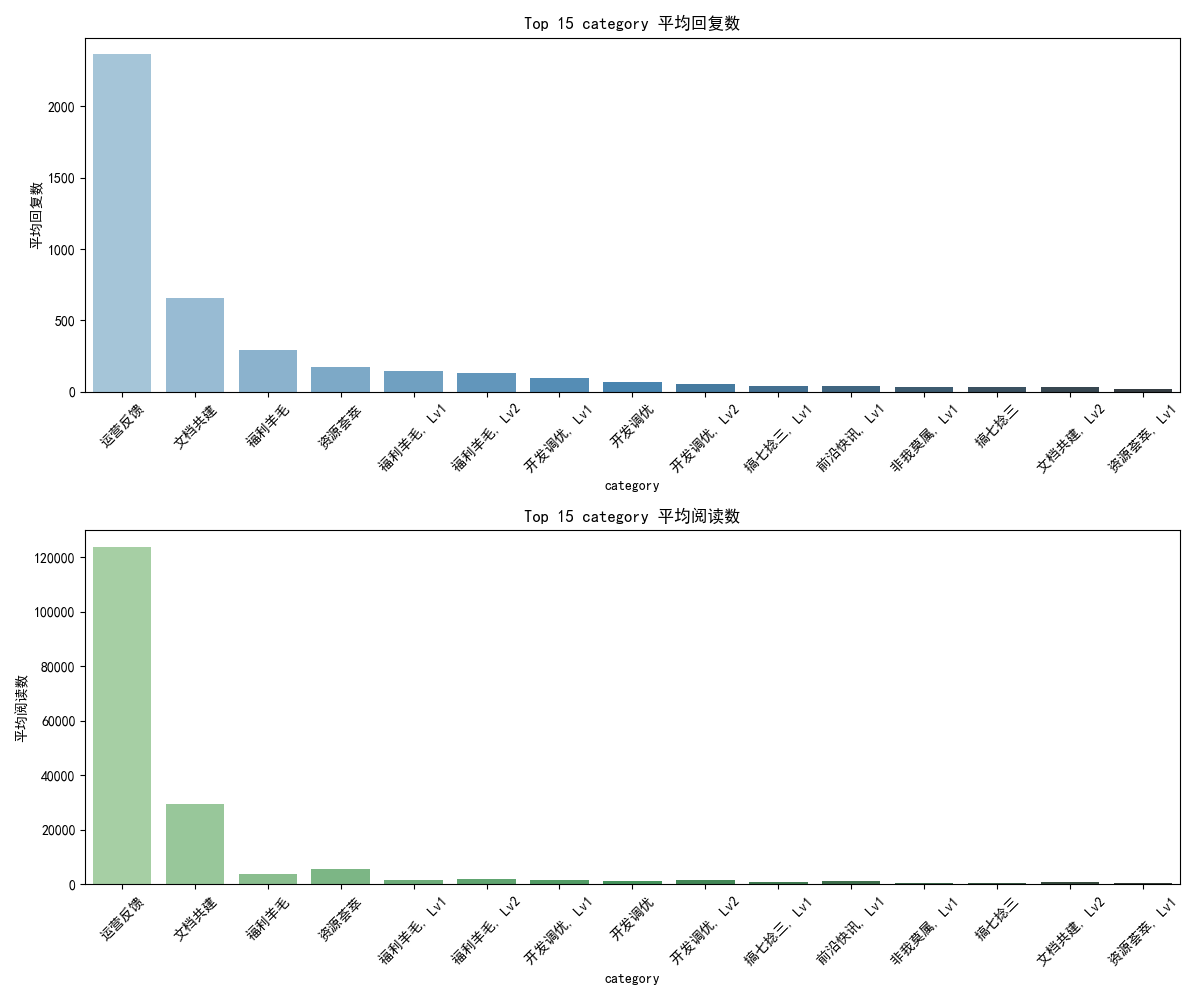
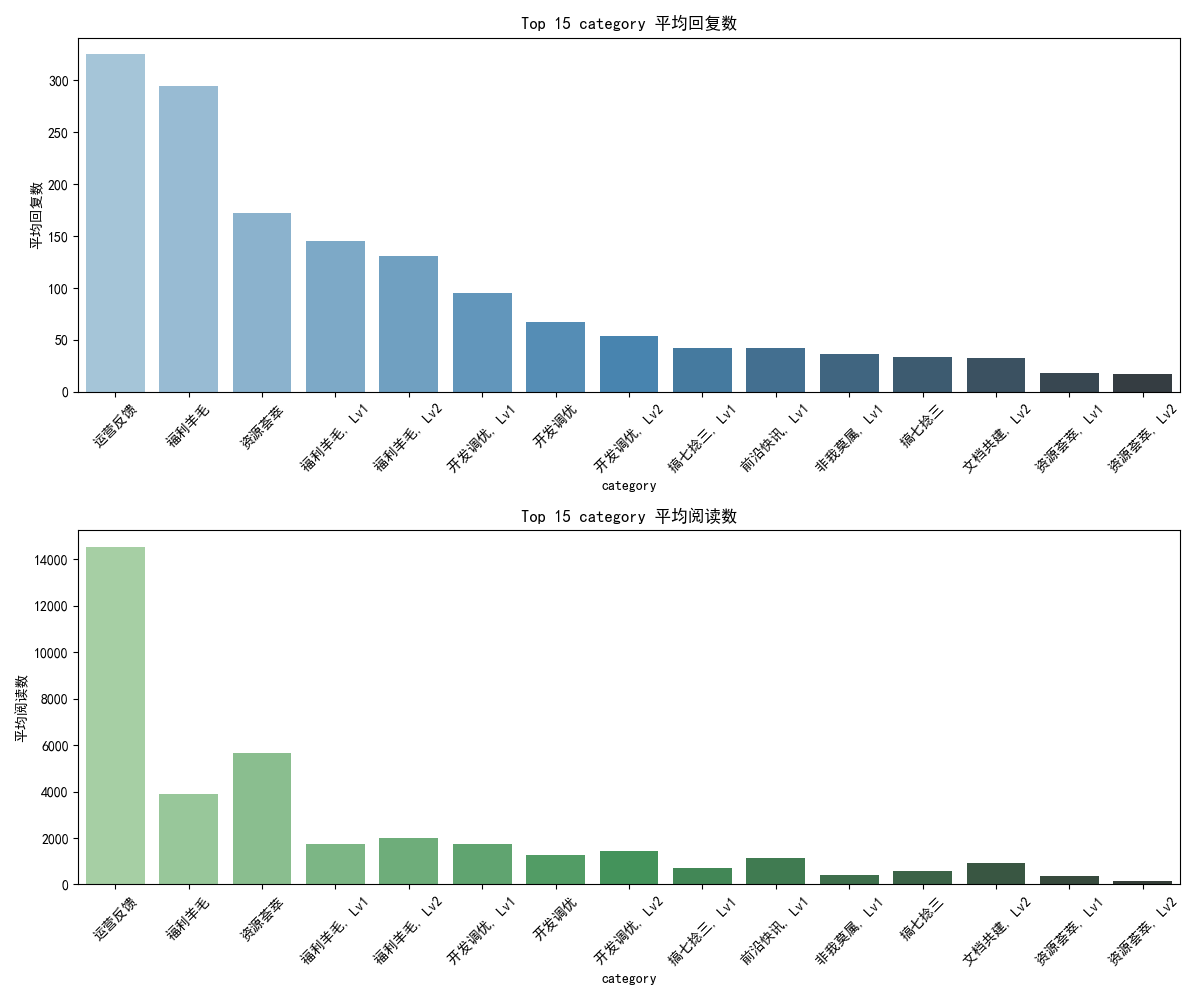
t2

diff --git a/linuxdo/data_analysis_report_final.html b/linuxdo/data_analysis_report_final.html
@@ -1,0 +1,204 @@
+<!DOCTYPE html>
+<html lang="zh-CN">
+<head>
+    <meta charset="UTF-8">
+    <meta name="viewport" content="width=device-width, initial-scale=1.0">
+    <title>LINUX DO 社区数据分析报告 (最终版)</title>
+    <script src="https://cdn.jsdelivr.net/npm/echarts/dist/echarts.min.js"></script>
+    <style>
+        body { font-family: Arial, sans-serif; margin: 20px; background-color: #f5f5f5; }
+        h1, h2, h3 { color: #333; }
+        .container { background-color: #fff; padding: 20px; margin-bottom: 20px; border-radius: 5px; box-shadow: 0 2px 4px rgba(0,0,0,0.1); }
+        .chart-container { width: 100%; height: 400px; margin-bottom: 20px; }
+        .insight { background-color: #e9f7fe; padding: 10px; border-left: 5px solid #4CAF50; margin-bottom: 10px; }
+        img { max-width: 100%; height: auto; }
+    </style>
+</head>
+<body>
+
+    <div class="container">
+        <h1>LINUX DO 社区数据分析报告 (最终版)</h1>
+        <p><strong>概览</strong>: 本报告基于最终修正的 `article.csv` 数据集，深入分析了影响 LINUX DO 社区帖子热度（阅读量、回复量）的关键因素，探索了社区热门话题，并洞察了用户行为。</p>
+    </div>
+
+    <div class="container">
+        <h2>1. 高热度帖子特征分析</h2>
+        
+        <h3>高回复量帖子 (Top 10%)</h3>
+        <div class="insight">
+            <ul>
+                <li><strong>分类</strong>: "开发调优" 和 "福利羊毛" 及其子类是主要来源。"搞七捻三, Lv1" 也表现突出。</li>
+                <li><strong>标签</strong>: "人工智能"、"纯水"、"抽奖"、"公益推广"、"软件开发" 高频出现。</li>
+                <li><strong>标题关键词</strong>: "公益"、"API"、"Claude"、"抽奖"、"AI"、"教程"、"活动"、"模型" 等。</li>
+            </ul>
+        </div>
+
+        <h3>高阅读量帖子 (Top 10%)</h3>
+        <div class="insight">
+            <ul>
+                <li><strong>分类</strong>: "开发调优" 系列贡献最多。"福利羊毛" 和 "搞七捻三" 系列也贡献较多。</li>
+                <li><strong>标签</strong>: "人工智能"、"纯水"、"软件开发"、"作品集"、"公益推广"、"Cursor" 高频。</li>
+                <li><strong>标题关键词</strong>: 与高回复量关键词相似，如 "公益"、"AI"、"API"、"Claude"、"gemini"、"教程"、"Load" 等。</li>
+            </ul>
+        </div>
+        <div class="insight">
+            <p><strong>总结</strong>: 高阅读量和高回复量的帖子在分类和标签上高度一致，核心吸引力在于技术分享和福利活动。</p>
+        </div>
+    </div>
+
+    <div class="container">
+        <h2>2. 分类与标签影响力评估</h2>
+        
+        <h3>按分类 (`category`) 平均互动量</h3>
+        <div id="categoryChart" class="chart-container"></div>
+        <div class="insight">
+            <p><strong>洞察</strong>: "运营反馈" 类帖子平均互动量极高。"资源荟萃" 和 "福利羊毛" 系列也表现出色。</p>
+        </div>
+
+        <h3>按主标签 (`tag-1`) 平均互动量</h3>
+        <div id="tag1Chart" class="chart-container"></div>
+        <div class="insight">
+            <p><strong>洞察</strong>: "求资源" 和 "DeepLX" 标签下的帖子具有压倒性的互动量。"抽奖" 标签的平均回复数也很高。</p>
+        </div>
+    </div>
+
+    <div class="container">
+        <h2>3. 内容类型与互动关系</h2>
+        <div id="contentTypeChart" class="chart-container"></div>
+        <div class="insight">
+            <p><strong>洞察</strong>: "抽奖/福利类"内容是激发用户参与（回复）的最有效手段，其互动率远超其他类型。"求助类"内容的互动率也相对较高。</p>
+        </div>
+    </div>
+
+    <div class="container">
+        <h2>4. 社区话题趋势分析</h2>
+        <div id="wordFrequencyChart" class="chart-container"></div>
+        <div class="insight">
+            <p><strong>洞察</strong>: 社区内最核心的话题依然是"纯水"、"人工智能"、"快问快答"、"软件开发"以及"福利活动"("公益", "AFF", "抽奖")。"网盘"资源分享也是一个重要主题。</p>
+        </div>
+    </div>
+
+    <div class="container">
+        <h2>5. 用户行为洞察 (互动率)</h2>
+        <!-- 由于互动率是单个帖子的指标，用文字描述其发现 -->
+        <div class="insight">
+            <ul>
+                <li><strong>互动率最高的帖子</strong>: 几乎全部是<strong>抽奖活动</strong>，互动率可高达50%以上。</li>
+                <li><strong>互动率最低的帖子</strong>: 多为<strong>简单的图文分享</strong>或<strong>资源帖</strong>，用户主要是浏览。</li>
+            </ul>
+        </div>
+        <div class="insight">
+            <p><strong>总结</strong>: 抽奖和福利活动是驱动用户深度参与（回复）的绝对核心动力。内容型帖子能带来流量，但用户参与度相对较低。</p>
+        </div>
+    </div>
+
+    <div class="container">
+        <h2>6. 附录：相关图表</h2>
+        <h3>各分类平均互动量</h3>
+        <img src="category_avg_interaction.png" alt="各分类平均互动量">
+        
+        <h3>各主标签平均互动量</h3>
+        <img src="tag-1_avg_interaction.png" alt="各主标签平均互动量">
+
+        <h3>内容类型与互动关系</h3>
+        <img src="content_type_interaction.png" alt="内容类型与互动关系">
+
+        <h3>社区高频词</h3>
+        <img src="community_word_frequency.png" alt="社区高频词">
+    </div>
+
+    <script>
+        // 图表数据 (从Python脚本的输出中提取关键数据)
+        // 为简化，这里使用示例数据。实际应用中，可以从CSV或JSON文件动态加载。
+        var categoryData = {
+            categories: ['运营反馈', '福利羊毛', '资源荟萃', '福利羊毛, Lv1', '福利羊毛, Lv2', '开发调优, Lv1', '开发调优', '开发调优, Lv2', '搞七捻三, Lv1', '职场'],
+            avgReply: [325.0, 294.28, 172.10, 145.68, 130.44, 95.47, 66.82, 53.75, 42.0, 40.33],
+            avgView: [14539.0, 3880.83, 5673.0, 1731.6, 1981.78, 1744.13, 1271.29, 1439.0, 1145.5, 946.0]
+        };
+
+        var tag1Data = {
+            tags: ['求资源', 'DeepLX', '作品集', '抽奖', 'ChatGPT', '人工智能', '订阅节点', '职场', '树洞', '快问快答'],
+            avgReply: [4600.0, 1800.0, 325.0, 180.56, 173.0, 147.29, 123.0, 74.33, 65.8, 50.0],
+            avgView: [103000.0, 112000.0, 14614.5, 558.22, 9600.0, 2382.78, 2258.75, 968.33, 1295.0, 1500.0]
+        };
+
+        var contentTypeData = {
+            types: ['抽奖/福利类', '求助类', '其他/讨论类', '教程类', 'AFF推广类', '分享类', '资讯类'],
+            avgReply: [342.73, 97.18, 65.77, 86.43, 79.43, 60.5, 49.23],
+            avgView: [2129.67, 2226.99, 1624.79, 2465.86, 1379.26, 1628.67, 1173.54],
+            avgRate: [0.3019, 0.0665, 0.0578, 0.0528, 0.0353, 0.0515, 0.0484] // 乘以100转为百分比
+        };
+
+        var wordFrequencyData = {
+            words: ['纯水', '人工智能', '快问快答', '软件开发', '公益', 'AFF', '抽奖', '什么', '病友', '网盘', '夸克网盘', 'Claude', '分享', '订阅', 'AI', 'API', '有没有', '免费', '模型', 'OpenAI'],
+            counts: [115, 104, 55, 47, 27, 24, 21, 19, 19, 18, 18, 16, 16, 14, 14, 13, 13, 13, 12, 11]
+        };
+
+        // 1. 分类平均互动量
+        var categoryChart = echarts.init(document.getElementById('categoryChart'));
+        var categoryOption = {
+            title: { text: 'Top 10 分类平均互动量' },
+            tooltip: { trigger: 'axis' },
+            legend: { data: ['平均回复数', '平均阅读数'] },
+            xAxis: { type: 'category', data: categoryData.categories },
+            yAxis: { type: 'value' },
+            series: [
+                { name: '平均回复数', type: 'bar', data: categoryData.avgReply, itemStyle: { color: '#5470c6' } },
+                { name: '平均阅读数', type: 'bar', data: categoryData.avgView, itemStyle: { color: '#91cc75' } }
+            ]
+        };
+        categoryChart.setOption(categoryOption);
+
+        // 2. 主标签平均互动量
+        var tag1Chart = echarts.init(document.getElementById('tag1Chart'));
+        var tag1Option = {
+            title: { text: 'Top 10 主标签平均互动量' },
+            tooltip: { trigger: 'axis' },
+            legend: { data: ['平均回复数', '平均阅读数'] },
+            xAxis: { type: 'category', data: tag1Data.tags },
+            yAxis: { type: 'value' },
+            series: [
+                { name: '平均回复数', type: 'bar', data: tag1Data.avgReply, itemStyle: { color: '#fac858' } },
+                { name: '平均阅读数', type: 'bar', data: tag1Data.avgView, itemStyle: { color: '#ee6666' } }
+            ]
+        };
+        tag1Chart.setOption(tag1Option);
+
+        // 3. 内容类型与互动关系
+        var contentTypeChart = echarts.init(document.getElementById('contentTypeChart'));
+        var contentTypeOption = {
+            title: { text: '各内容类型平均互动量与互动率' },
+            tooltip: { trigger: 'axis' },
+            legend: { data: ['平均回复数', '平均阅读数', '平均互动率 (%)'] },
+            xAxis: { type: 'category', data: contentTypeData.types },
+            yAxis: [
+                { type: 'value', name: '数量' },
+                { type: 'value', name: '互动率 (%)', min: 0, max: 35, interval: 5, axisLabel: { formatter: '{value} %'} }
+            ],
+            series: [
+                { name: '平均回复数', type: 'bar', data: contentTypeData.avgReply, itemStyle: { color: '#5470c6' } },
+                { name: '平均阅读数', type: 'bar', data: contentTypeData.avgView, itemStyle: { color: '#91cc75' } },
+                { name: '平均互动率 (%)', type: 'line', yAxisIndex: 1, data: contentTypeData.avgRate.map(r => (r * 100).toFixed(2)), itemStyle: { color: '#fac858' } }
+            ]
+        };
+        contentTypeChart.setOption(contentTypeOption);
+
+        // 4. 社区高频词
+        var wordFrequencyChart = echarts.init(document.getElementById('wordFrequencyChart'));
+        var wordFrequencyOption = {
+            title: { text: '社区Top 20高频词' },
+            tooltip: {},
+            xAxis: { type: 'value' },
+            yAxis: { type: 'category', data: wordFrequencyData.words },
+            series: [{
+                type: 'bar',
+                data: wordFrequencyData.counts,
+                itemStyle: { color: '#73c0de' }
+            }]
+        };
+        wordFrequencyChart.setOption(wordFrequencyOption);
+
+    </script>
+
+</body>
+</html>

diff --git a/linuxdo/data_analysis_insights_final.md b/linuxdo/data_analysis_insights_final.md
@@ -1,0 +1,107 @@
+# 最终数据分析洞察报告 (基于最终修正的 CSV 数据)
+
+## 1. 概述
+
+本次分析基于最终修正的 `article.csv` 数据集，旨在揭示影响 LINUX DO 社区帖子热度（阅读量、回复量）的关键因素，并探索社区内的热门话题。分析涵盖了高热度帖子特征、分类与标签影响力、内容类型与互动关系、社区话题趋势以及用户行为洞察。
+
+---
+
+## 2. 核心发现与洞察
+
+### 2.1 高热度帖子特征分析
+
+#### 高回复量帖子 (Top 10%: 回复数 >= 158)
+*   **分类**: "开发调优" 和 "福利羊毛" 及其子类（Lv1, Lv2）依然是高回复量帖子的主要来源。"搞七捻三, Lv1" 也进入了前列。
+*   **标签**:
+    *   **主标签**: "人工智能"、"纯水"、"抽奖" 是高频标签。
+    *   **所有标签**: "人工智能"、"抽奖"、"纯水"、"公益推广"、"软件开发"、"作品集" 等标签频繁出现。
+*   **标题关键词**: "公益"、"API"、"Claude"、"抽奖"、"长期"、"GPT"、"AI"、"教程"、"活动"、"模型" 等词汇高频出现。**与福利和技术工具相关的内容仍是讨论焦点**。
+
+#### 高阅读量帖子 (Top 10%: 阅读数 >= 2100)
+*   **分类**: "开发调优" 系列贡献最多。"福利羊毛" 和 "搞七捻三" 系列也贡献了较多高阅读量帖子。
+*   **标签**:
+    *   **主标签**: "人工智能"、"纯水"、"软件开发"、"快问快答" 是高频标签。
+    *   **所有标签**: "人工智能"、"软件开发"、"纯水"、"作品集"、"公益推广"、"Cursor" 是高频标签。
+*   **标题关键词**: 与高回复量帖子关键词相似，"公益"、"AI"、"API"、"Claude"、"gemini"、"教程"、"Load" 等词常见。
+*   **总结**: **高阅读量和高回复量的帖子在分类和标签上高度一致，核心吸引力在于技术分享和福利活动。**
+
+### 2.2 分类与标签影响力评估
+
+#### 按分类 (`category`) 平均互动量
+*   **平均回复数 Top**:
+    1.  **运营反馈**: 325 回复
+    2.  **福利羊毛**: 294 回复
+    3.  **资源荟萃**: 172 回复
+*   **平均阅读数 Top**:
+    1.  **运营反馈**: 14,539 阅读
+    2.  **资源荟萃**: 5,673 阅读
+    3.  **福利羊毛, Lv2**: 1,981 阅读
+*   **洞察**: "运营反馈" 类帖子虽然数量不多，但平均互动量极高，是社区的“重量级”内容。"资源荟萃" 也表现出较高的平均阅读量。
+
+#### 按主标签 (`tag-1`) 平均互动量
+*   **平均回复数 Top**:
+    1.  **求资源**: 4600 回复 (极高)
+    2.  **DeepLX**: 1800 回复 (极高)
+    3.  **作品集**: 325 回复
+    4.  **抽奖**: 180 回复
+    5.  **ChatGPT**: 173 回复
+*   **平均阅读数 Top**:
+    1.  **求资源**: 103,000 阅读 (极高)
+    2.  **DeepLX**: 112,000 阅读 (极高)
+    3.  **作品集**: 14,614 阅读
+    4.  **人工智能**: 2,382 阅读
+    5.  **ChatGPT**: 9,600 阅读
+*   **洞察**: "求资源" 和 "DeepLX" 这两个标签的帖子具有压倒性的互动量，是社区的超级热点。"抽奖" 标签的平均回复数也相当高，说明福利活动非常有效。
+
+### 2.3 内容类型与互动关系
+
+*   **平均回复数**: **抽奖/福利类** (342) 显著高于其他类型。
+*   **平均阅读数**: **抽奖/福利类** (2129) 和 **求助类** (2226) 领先。
+*   **平均互动率 (回复/阅读)**:
+    1.  **抽奖/福利类**: 30.19% (远超其他类型)
+    2.  **求助类**: 6.65%
+    3.  **其他/讨论类**: 5.78%
+*   **洞察**: 
+    *   **抽奖/福利类**内容是激发用户参与（回复）的最有效手段，其互动率远超其他类型。
+    *   **求助类**内容的互动率也相对较高，说明社区内互帮互助的氛围良好。
+
+### 2.4 社区话题趋势分析
+
+*   **社区高频词 Top 10**:
+    1.  纯水
+    2.  人工智能
+    3.  快问快答
+    4.  软件开发
+    5.  公益
+    6.  AFF
+    7.  抽奖
+    8.  什么
+    9.  病友
+    10. 网盘
+*   **洞察**: 社区内最核心的话题依然是**水区交流("纯水")**、**AI技术("人工智能")**、**快速问答("快问快答")**、**软件开发**以及**福利活动("公益", "AFF", "抽奖")**。"网盘"资源分享也是一个重要主题。社区关注点非常稳定。
+
+### 2.5 用户行为洞察 (互动率)
+
+*   **互动率最高的帖子**: 几乎全部是**抽奖活动**。例如 "[抽奖] 抽10个YPT成品号" 的互动率高达 55.86%。
+*   **互动率最低的帖子**: 多为**简单的图文分享**或**资源帖**（尤其是动漫、影视资源），用户往往只是浏览，很少参与讨论。
+*   **洞察**: 
+    *   **抽奖和福利活动是驱动用户深度参与（回复）的绝对核心动力**。
+    *   内容型帖子（如资源分享、技术讨论）虽然能带来流量（阅读），但用户参与度（回复）相对较低。
+
+---
+
+## 3. 总结与建议
+
+1.  **内容策略**:
+    *   **最大化参与度**: 定期举办**抽奖、福利分享**活动是提升社区活跃度和用户回复率的最直接有效方式。
+    *   **平衡流量与讨论**: 发布**高质量的技术教程、AI相关资讯、资源分享**能有效提升阅读量。可以尝试在这些帖子中加入提问环节以提高回复率。
+    *   **重视特殊标签**: "求资源"、"DeepLX"、"公告" 等标签下的帖子具有极高热度，应确保此类内容的质量和相关性。
+
+2.  **社区运营**:
+    *   **突出高价值内容**: "运营反馈" 类帖子影响力巨大，应给予更多关注和推广。
+    *   **引导讨论**: 对于阅读量高但互动率低的帖子，可以通过置顶评论、发起相关话题等方式引导用户讨论。
+
+3.  **未来关注点**:
+    *   持续关注 "人工智能"、"软件开发"、"纯水" 等核心话题的演变。
+    *   监控 "公益"、"AFF"、"抽奖" 等标签下的活动效果，优化福利发放策略。
+    *   "求资源" 和 "DeepLX" 作为超级热点，其背后的原因值得深入研究，看是否能复制其成功模式到其他内容。
